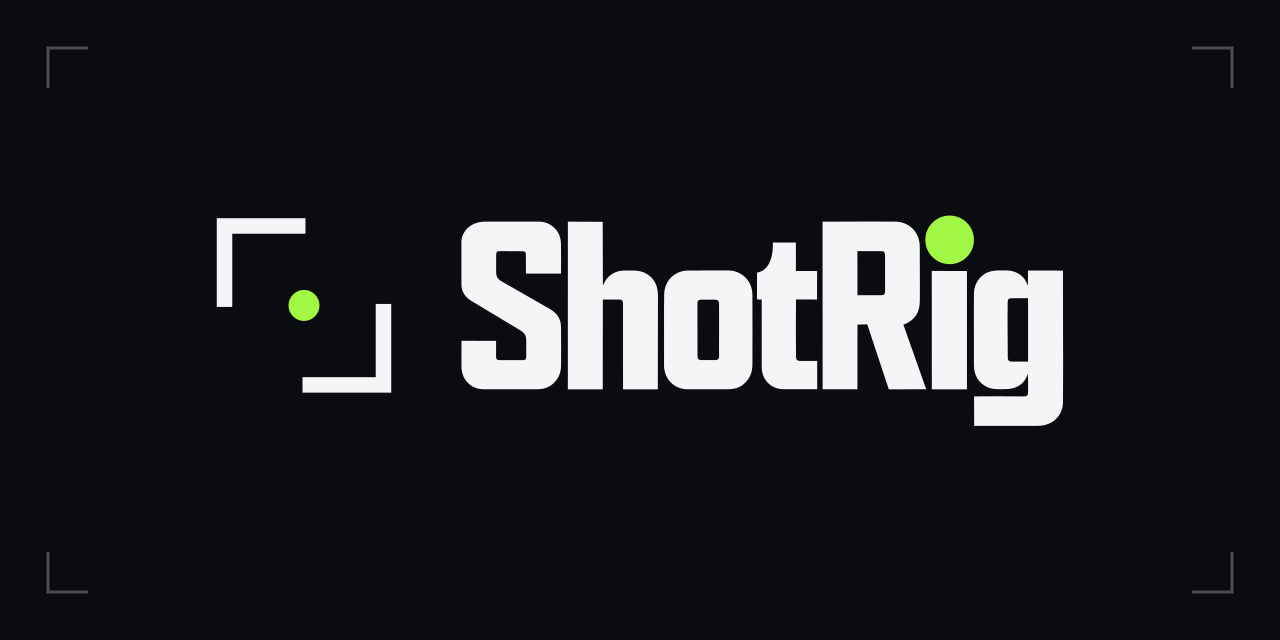
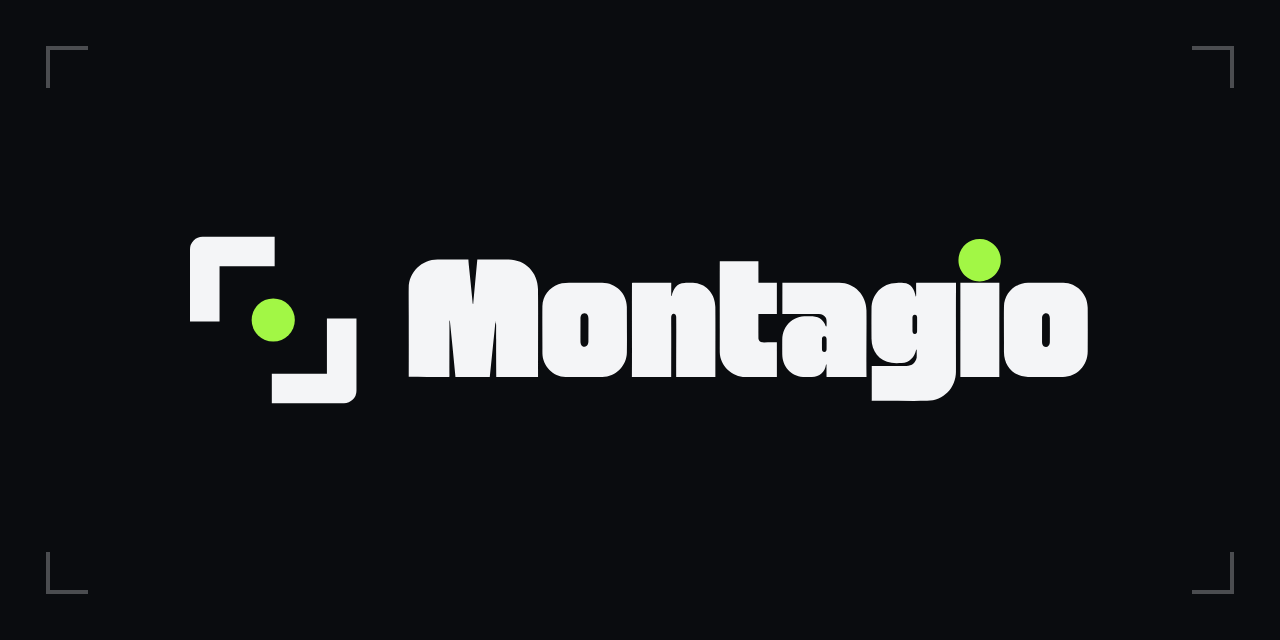
chore: the project is now called Montagio
Everything a user sees says Montagio: the app's texts in English and French, page titles, the mentions written in new MP4 and PNG files, download names, log prefixes, the node pack's display names, category and Registry name, the MCP server's name and texts, the installer's messages, scripts (montagio.sh, montagio.ps1), install folder and pack link, the preset command (npm run montagio), the author of the bundled presets, the Comfy Hub templates, the showcase's Space card and the docs.

The logo: the mark keeps its two viewfinder corners and its tally dot, drawn thicker to sit with the new wordmark, heavy and rounded; the header shows both at 22 px, and the favicon, icon.svg, apple-icon.png, docs/brand/ and the 1280x640 social card are made from them.

The identifiers stay, since files, workflows and recipes hold them: the @montagio/* packages, the MONTAGIO_* variables, the node ids, the schemas (montagio/recipe@1 and the others), the recipe's stack.montagio, the PNG key Montagio-Recipe, the output folders of the app's workflow templates, the GPU tooling's names and the binaries of demo-assets/. The avatar example's sample sentence keeps the former name: it is what demo-assets/examples/avatar.mp4 says.

The line naming the competitor goes to the first line of the README and to the Space card's short description only, as the repository policy test now checks.

diff --git a/apps/web/src/components/Brand.tsx b/apps/web/src/components/Brand.tsx
@@ -5,18 +5,18 @@
  */
 import styles from './brand.module.css';
 
-const MARK_CORNERS = 'M219 219H517V271H271V517H219ZM805 805H507V753H753V507H805Z';
+const MARK_CORNERS = 'M219 517V263A44 44 0 0 1 263 219H517V323H323V517ZM805 507V761A44 44 0 0 1 761 805H507V701H701V507Z';
 const WORDMARK_LETTERS =
-  'M293.008 429.299C292.99 438.703 293.023 448.107 292.955 457.511C292.912 463.549 296.416 463.673 301.87 463.686C314.875 463.715 327.881 463.807 340.885 463.624C345.384 463.56 346.711 462.041 346.8 457.507C346.984 448.13 346.865 438.749 346.907 429.37C346.947 420.231 344.289 415.386 336.591 410.645C324.14 402.977 311.414 395.768 298.983 388.06C281.861 377.443 264.247 367.577 247.169 356.889C237.805 351.029 231.314 340.914 231.162 329.627C231.134 327.501 231.147 325.376 231.161 323.251C231.318 300.004 230.814 276.736 231.061 253.498C231.118 248.101 231.977 243.367 234.373 238.493C242.015 222.948 257.513 216.263 274.124 216.301C305.875 216.375 337.625 216.244 369.376 216.288C376.506 216.297 383.095 218.033 389.284 221.621C402.369 229.208 408.622 241.311 408.867 256.124C409.158 273.777 409.054 291.435 408.965 309.091L346.312 309.118C346.26 297.695 346.407 286.271 346.24 274.85C346.172 270.245 343.852 269.254 339.757 269.194C326.754 269.004 313.747 269.207 300.744 269.019C293.702 268.917 293.154 270.913 293.109 277.871C293.049 287.119 293.041 296.366 293.101 305.613C293.16 314.753 295.488 318.721 303.023 323.088C331.642 339.676 360.585 355.693 389.133 372.401C401.73 379.774 408.806 389.521 408.976 404.624C409.232 427.498 409.195 450.376 409.028 473.252C408.967 481.721 407.275 489.314 402.634 496.501C394.037 509.811 381.935 515.657 366.376 515.715C335.376 515.832 304.375 515.628 273.374 515.703C270.51 515.709 267.594 515.692 264.749 515.286C244.702 512.427 231.424 495.668 231.212 475.876C231.045 460.294 231.196 444.71 231.262 429.127L293.008 429.299ZM421.213 216.376L483.391 216.666L483.727 330.397C485 327.892 486.243 325.37 487.606 322.912C494.047 311.296 507.217 303.964 520.498 303.792C532.052 303.642 547.193 302.591 557.652 307.382C574.605 315.149 581.847 329.521 582.044 347.624C582.045 347.63 582.061 350.619 582.061 350.624C582.119 405.675 581.805 460.727 581.799 515.779L519.719 515.79C519.371 464.611 519.84 413.429 519.674 362.249C519.658 357.402 517.847 355.454 513.015 355.399C503.213 355.288 493.41 355.451 483.608 355.472L483.509 515.752L421.14 515.797L421.213 216.376ZM705.375 303.549C705.381 303.549 707.621 303.548 707.626 303.548C731.546 303.7 750.416 322.138 750.685 346.123C750.685 346.129 750.703 349.493 750.703 349.499C750.728 390.114 751.092 430.763 750.737 471.375C750.624 484.209 747.375 493.965 738.427 503.421C728.979 513.405 718.174 515.689 705 515.694C682.625 515.703 660.25 515.637 637.875 515.712C634.721 515.723 631.622 515.737 628.499 515.255C606.839 511.911 592.981 494.385 592.903 472.876C592.868 463.126 592.914 453.374 592.964 443.625C593.129 411.329 592.555 378.723 593.156 346.5C593.606 322.385 611.075 304.026 635.624 303.707C658.872 303.405 682.125 303.663 705.375 303.549ZM659.625 355.664C667.883 355.664 676.142 355.592 684.399 355.719C688.596 355.784 691.121 358.564 691.161 362.614C691.42 388.615 691.139 414.618 691.165 440.621C691.165 440.627 691.185 452.996 691.186 453.002C691.304 458.75 691.748 463.371 684.763 463.505C676.385 463.666 668.004 463.456 659.625 463.54C654.235 463.595 652.708 460.992 652.696 456.004C652.621 425.126 652.739 394.248 652.525 363.372C652.489 358.295 653.833 355.665 659.625 355.664ZM787.261 253.624L828.346 253.638L828.429 304.514L866.227 304.564L866.11 355.404L828.595 355.319C828.253 389.129 828.24 422.943 828.534 456.753C828.588 463.034 830.112 465.1 836.995 465.113C846.793 465.13 856.591 465.107 866.389 465.109L866.394 515.614C846.346 515.683 826.297 515.649 806.249 515.561C784.118 515.464 767.72 499.105 767.379 476.625C767.379 476.62 767.363 474.381 767.363 474.376C767.376 434.687 767.391 395.002 767.323 355.313C765.084 355.298 761.884 355.874 759.722 355.194C758.889 354.932 758.909 352.823 758.917 352.131C759.074 338.254 758.829 324.373 758.976 310.496C758.987 309.46 759.046 308.425 759.19 307.399C759.195 307.397 761.008 306.908 761.013 306.907C780.167 302.758 786.623 279.956 787.182 262.875C787.283 259.793 787.241 256.708 787.261 253.624ZM875.986 216.406C887.613 216.232 899.247 216.31 910.875 216.321C942.49 216.351 974.144 215.899 1005.75 216.334C1031.45 216.688 1049.66 235.805 1049.59 261.375C1049.51 293.876 1050.08 326.379 1049.66 358.877C1049.39 380.176 1039.27 393.179 1020.37 400.5L1061.07 515.696L994.296 515.791L955.852 399.997L938.341 400.055L938.247 515.702L876.123 515.704L875.986 216.406ZM938.215 269.049C952.479 269.065 966.745 268.865 981.008 269.04C986.975 269.113 987.598 272.29 987.634 277.871C987.767 298.373 987.607 318.876 987.667 339.379C987.684 345.493 986.712 347.666 980.262 347.681C966.279 347.716 952.295 347.58 938.313 347.804L938.215 269.049ZM1071.02 304.373L1133.8 304.55L1133.81 515.772L1071.12 515.799L1071.02 304.373ZM1242.75 488.387C1242.75 488.389 1242.36 489.379 1242.36 489.38C1241.58 491.024 1240.94 492.734 1240.14 494.366C1232.94 508.935 1219.39 515.178 1203.75 515.389C1192.89 515.535 1179.71 516.645 1169.59 511.624C1153.67 503.725 1146.36 489.917 1146.29 472.501C1146.25 461.002 1146.26 449.499 1146.3 438C1146.41 406.641 1145.88 375.219 1146.41 343.873C1146.56 335.441 1149.13 326.977 1154.3 320.252C1168.29 302.037 1183.55 303.425 1204.5 303.516C1219.08 303.579 1233.44 310.728 1239.77 324.373C1240.76 326.509 1241.61 328.712 1242.69 330.803L1242.84 303.672L1305.34 303.742C1305.36 336.995 1305.35 370.247 1305.42 403.5C1305.52 448.358 1305.85 493.274 1305.34 538.126C1305.28 543.686 1304.55 548.927 1302.48 554.115C1295 572.813 1278.59 581.013 1259.25 581.091C1221.74 581.243 1184.23 580.944 1146.72 581.081L1146.57 528.418C1175.88 528.262 1205.2 527.995 1234.5 528.461C1240.36 528.554 1242.87 527.267 1242.93 521.257C1243.03 510.3 1243.15 499.337 1242.75 488.387ZM1243 466.263C1235.41 466.196 1227.83 466.197 1220.25 466.219C1212.41 466.243 1206.84 467.503 1206.78 459.004C1206.56 428.889 1206.12 390.727 1206.58 359.997C1206.66 354.662 1208.32 353.203 1213.87 353.124C1223.57 352.985 1233.27 353.009 1242.97 353.004L1243 466.263Z';
+  'M206.681 963.744C206.929 883.832 206.885 803.912 206.774 724C206.723 687.859 206.147 651.627 206.608 615.5C207.413 552.366 257.652 504.95 319.499 504.171C319.507 504.171 325.492 504.134 325.5 504.134C363.755 504.073 402.14 503.543 440.386 504.227C440.693 511 441.139 517.758 441.889 524.499C447.181 572.101 451.632 619.835 456.326 667.5C456.622 670.504 456.838 673.515 456.983 676.529C457.731 677.356 458.478 678.182 459.226 679.008C459.226 679.005 459.669 672.504 459.669 672.501C464.221 617.627 470.208 562.863 474.969 508.001C475.081 506.72 475.218 505.441 475.353 504.161C516.235 503.923 557.121 503.765 598.001 504.313C663.287 505.189 712.116 554.707 712.95 620C713.951 698.303 713.152 776.69 713.208 855C713.234 891.276 713.015 927.552 713.201 963.827L549.412 963.92C549.181 915.455 548.722 866.987 549.183 818.524C549.052 816.184 548.917 813.843 548.905 811.5C548.826 795 548.98 778.5 548.951 762C548.948 760.77 548.905 759.541 548.856 758.312C548.423 756.369 548.242 754.534 547.461 752.707C546.633 750.77 546.848 745.72 546.751 743.725C546.511 745.313 546.262 746.901 546.12 748.501C543.8 774.675 541.033 800.876 538.19 827.001C533.232 872.56 529.228 918.222 524.108 963.763L389.606 963.846C389.458 961.897 389.309 959.947 389.132 958C382.628 886.387 374.888 814.856 367.748 743.304C366.129 743.541 366.187 744.346 366.108 745.961C365.938 749.47 366.1 752.987 366.12 756.501C366.346 795.662 365.979 834.837 365.992 874C366 898.331 365.826 922.671 365.936 947.001C365.962 952.627 366.409 958.285 365.592 963.851C312.622 964.1 259.648 964.367 206.681 963.744ZM2194.43 595.423C2246.36 595.574 2298.29 595.409 2350.23 595.57C2349.53 707.865 2350.04 820.201 2350.08 932.5C2350.08 932.508 2350.06 942.993 2350.06 943C2349.51 1006.86 2302.04 1057.16 2237 1057.72C2165.85 1058.34 2094.66 1057.32 2023.5 1057.71C2022.41 1057.72 2021.33 1057.73 2020.24 1057.75L2020.22 921.17C2065.48 920.535 2110.74 921.375 2156 921.292C2178.36 921.252 2191.54 909.001 2196.21 888.261C2196.02 885.176 2196.34 882.09 2196.3 879C2196.23 872.99 2196.2 867.002 2196.22 860.99C2196.22 860.983 2196.18 858.969 2196.18 858.962C2196.08 857.225 2196.06 856.532 2194.37 856.207C2194.36 856.215 2193.88 858.565 2193.88 858.572C2188.03 886.65 2167.2 908.781 2137.5 909.457C2124.79 909.747 2110.48 910.652 2097.79 908.512C2048.5 900.198 2019.69 863.3 2019.23 814.001C2018.86 774.835 2018.93 735.665 2019.24 696.499C2019.68 640.899 2060.13 595.833 2117.5 595.602C2126.5 595.566 2135.5 595.531 2144.5 595.624C2174.73 595.938 2187.54 621.604 2192.37 648.604C2192.38 648.603 2193.12 648.553 2193.12 648.552C2194.29 648.499 2194.08 643.628 2194.08 643.005C2194.09 638.503 2194.08 634.001 2194.07 629.5C2194.05 619.68 2193.78 609.812 2193.94 599.997C2193.96 598.462 2194.18 596.938 2194.43 595.423ZM889.5 595.483C914.5 595.456 939.502 595.293 964.5 595.569C1017.33 596.153 1060.44 637.118 1061.01 690C1061.01 690.007 1061.02 695.492 1061.02 695.5C1061.01 752.978 1062 810.533 1061.11 868C1060.31 920.054 1017.27 963.095 965.001 963.85C964.993 963.85 960.508 963.878 960.501 963.878C918.512 964.036 876.49 964.161 834.5 963.997C830 963.979 825.499 964.018 821 963.933C771.296 962.995 730.818 920.436 730.28 871.001C730.28 870.993 730.274 866.008 730.274 866C730.519 806.513 729.543 746.981 730.193 687.5C730.302 677.576 732.003 668.434 735.115 659C747.115 622.62 782.583 596.37 820.999 595.59C843.828 595.127 866.666 595.508 889.5 595.483ZM1081.04 595.611C1082.85 595.349 1084.67 595.12 1086.5 595.107C1133.99 594.771 1181.5 595.072 1229 595.031C1229.01 595.031 1234.86 595.026 1234.87 595.026C1234.9 611.023 1234.89 627.021 1234.87 643.018C1234.87 643.651 1234.63 646.266 1235.53 646.641C1235.57 646.659 1236.54 646.963 1236.71 647.016C1241.34 619.924 1256.98 595.823 1287.5 595.584C1297.01 595.509 1317.21 594.815 1327.5 595.841C1376.21 600.702 1407.2 642.803 1407.6 689.999C1408.39 781.284 1407.47 872.575 1407.73 963.863L1254.23 964.164C1253.79 886.275 1255.02 808.382 1254.27 730.495C1254.22 725.017 1253.41 719.255 1247.49 717.15C1238.57 713.985 1234.79 723.289 1234.72 730.493C1234.59 742.987 1234.75 755.503 1234.78 768C1234.98 833.343 1234.81 898.67 1234.65 964.016L1080.77 964.044C1080.77 964.037 1080.8 960.509 1080.8 960.502C1081.53 838.879 1080.51 717.239 1081.04 595.611ZM2753.5 595.417C2759.16 595.416 2764.81 595.386 2770.47 595.49C2823.61 596.474 2865.59 640.136 2866 692.999C2866.44 750.165 2866.33 807.334 2866.01 864.5C2865.7 918.959 2825.28 962.959 2769 963.827C2741.17 964.256 2713.33 963.901 2685.5 963.868C2667.67 963.846 2649.83 964.028 2632 963.808C2576.04 963.115 2538.4 921.714 2538.02 867.5C2537.93 856.001 2538.01 844.499 2538.02 833C2538.05 784.859 2537.32 736.628 2538.04 688.5C2538.82 637.13 2580.6 596.166 2632 595.563C2672.5 595.087 2713 595.419 2753.5 595.417ZM1670.19 595.447C1744.46 595.574 1818.73 595.052 1893 595.577C1953.13 596.002 1998.83 644.326 1999.48 703.5C2000.42 790.316 1998.3 877.152 1999.66 963.964C1947.58 963.718 1895.51 963.948 1843.43 964.078C1843.12 962.237 1842.97 960.373 1843 958.506C1843.21 943.978 1842.58 929.438 1843.12 914.918C1842.52 915.013 1841.91 915.108 1841.3 915.203C1836.3 945.569 1816.48 963.415 1785.5 963.924C1774 964.113 1762.49 964.561 1751 964.007C1702.49 961.666 1670.12 922.888 1669.69 875.5C1669.51 856.001 1669.49 836.499 1669.67 816.999C1669.91 790.936 1680.67 764.766 1700.9 747.844C1726.35 726.549 1745.78 726.116 1777.5 726.069C1808.69 726.022 1829.54 734.396 1840.07 765.37C1841.04 765.679 1842.01 765.987 1842.99 766.296C1843.19 757.025 1844.75 741.302 1840.32 732.411C1835.24 722.188 1824.54 717.217 1813.5 717.208C1765.7 717.169 1717.91 717.308 1670.11 717.276L1670.19 595.447ZM1424.97 511.229L1576.28 511.338L1576.41 595.535L1648.54 595.571L1648.65 717.234L1576.22 717.102C1576.24 748.404 1576.07 779.707 1576.34 811.008C1576.35 812.198 1576.39 813.384 1576.57 814.562C1578.41 826.73 1588.07 828.8 1598.5 828.683C1615.19 828.497 1631.88 828.579 1648.58 828.554L1648.66 964.141C1607.61 964.168 1566.55 964.299 1525.5 964.112C1472.97 963.872 1425.73 919.98 1424.92 867.001C1424.86 863.001 1424.87 859 1424.88 855C1425.19 740.411 1424.63 625.817 1424.97 511.229ZM2367.28 595.538L2519.98 595.529L2519.86 963.827L2367.27 963.925L2367.28 595.538ZM2189.5 720.332C2195.05 720.745 2197.73 725.348 2197.8 730.49C2198.07 748.493 2197.78 766.5 2197.75 784.505C2197.74 790.77 2196.2 796.433 2188.5 796.176C2181.72 795.951 2179.8 790.423 2179.76 784.508C2179.64 767.336 2179.84 750.162 2179.64 732.991C2179.56 726.791 2181.64 719.748 2189.5 720.332ZM895.5 714.465C907.876 715.089 910.577 726.531 910.597 736.497C910.658 765.832 910.477 795.167 910.405 824.503C910.382 834.211 907.209 845.075 895.5 845.601C883.205 846.153 879.397 834.988 879.328 825.003C879.121 795.168 879.481 765.332 879.372 735.498C879.336 725.539 883.318 713.851 895.5 714.465ZM2703.5 714.417C2713.88 714.753 2717.73 725.205 2717.76 733.995C2717.87 764.998 2717.98 796.003 2717.72 827.006C2717.65 835.46 2713.23 845.694 2703.5 846.299C2691.26 847.06 2687.2 836.257 2687.16 826.002C2687.06 795.167 2687.34 764.331 2687.23 733.495C2687.2 724.113 2692.88 714.072 2703.5 714.417ZM1833.5 804.268C1840.85 803.755 1843.3 809.912 1843.33 815.994C1843.4 829.165 1843.36 842.336 1843.25 855.507C1843.21 861.007 1840.72 866.282 1834.5 866.257C1828.59 866.233 1825.39 862.273 1825.31 856.51C1825.13 842.505 1825.11 828.495 1825.28 814.489C1825.34 809.609 1828.05 804.649 1833.5 804.268Z';
 const WORDMARK_DOT =
-  'M1102.88 205.48C1126.87 205.454 1146.34 224.898 1146.34 248.894C1146.34 272.889 1126.87 292.334 1102.88 292.308C1078.92 292.282 1059.51 272.853 1059.51 248.894C1059.51 224.935 1078.92 205.506 1102.88 205.48Z';
+  'M2443.5 423.696C2489.27 424.079 2526.1 461.437 2525.82 507.208C2525.54 552.979 2488.27 589.889 2442.5 589.718C2396.58 589.546 2359.52 552.124 2359.8 506.204C2360.08 460.283 2397.58 423.312 2443.5 423.696Z';
 
 /** The mark; while a take renders its dot blinks like a camera's tally light. */
 export function BrandMark({ recording = false, className }: { recording?: boolean; className?: string }) {
   return (
     <svg className={className} viewBox="211 211 602 602" aria-hidden="true" focusable="false">
       <path className={styles.ink} d={MARK_CORNERS} />
-      <circle className={styles.dot} data-recording={recording} cx="512" cy="512" r="52" />
+      <circle className={styles.dot} data-recording={recording} cx="512" cy="512" r="76" />
     </svg>
   );
 }
@@ -24,7 +24,7 @@ export function BrandMark({ recording = false, className }: { recording?: boolea
 /** The name as drawn for the logo; the link around it carries the words for assistive technology. */
 export function Wordmark({ className }: { className?: string }) {
   return (
-    <svg className={className} viewBox="228 200 1082 384" aria-hidden="true" focusable="false">
+    <svg className={className} viewBox="198 415 2677 652" aria-hidden="true" focusable="false">
       <path className={styles.ink} fillRule="evenodd" d={WORDMARK_LETTERS} />
       <path className={styles.dot} d={WORDMARK_DOT} />
     </svg>

diff --git a/tools/check-open-stack/test/repo-policy.test.ts b/tools/check-open-stack/test/repo-policy.test.ts
@@ -1,13 +1,17 @@
 import { execFileSync } from 'node:child_process';
+import { readFileSync } from 'node:fs';
 import { fileURLToPath } from 'node:url';
 
 const repoRoot = fileURLToPath(new URL('../../../', import.meta.url));
 
-// Spec rule: the competitor's brand is named only in the README "Context"
-// section. The word is assembled at runtime so this test does not name it.
+// Spec rule: the competitor's brand is named only in the README and, for search, in the
+// description of the Space card (the user's choice on 2026-10-25, with the repository's
+// description and topics, which live on GitHub). Never in the app, the showcase or the video.
+// The word is assembled at runtime so this test does not name it.
 const brand = ['higgs', 'field'].join('');
+const SPACE_CARD = 'apps/web/showcase-space/README.md';
 
-test('only the README mentions the competitor brand', () => {
+test('only the README and the Space card mention the competitor brand', () => {
   let files: string[] = [];
   try {
     files = execFileSync('git', ['grep', '-i', '-l', brand, '--', '.', ':!package-lock.json'], {
@@ -20,5 +24,13 @@ test('only the README mentions the competitor brand', () => {
     // git grep exits 1 when nothing matches
     if ((error as { status?: number }).status !== 1) throw error;
   }
-  expect(files).toEqual(['README.md']);
+  expect(files.sort()).toEqual(['README.md', SPACE_CARD]);
+});
+
+test('the Space card names it in its short description only, not on the page', () => {
+  const card = readFileSync(new URL(`../../../${SPACE_CARD}`, import.meta.url), 'utf8');
+  const lines = card.split(/\r?\n/).filter((line) => line.toLowerCase().includes(brand));
+  expect(lines.map((line) => line.split(':')[0])).toEqual(['short_description']);
+  const frontMatter = /^---\r?\n([\s\S]*?)\r?\n---/.exec(card)?.[1] ?? '';
+  expect(frontMatter.toLowerCase()).toContain(brand);
 });

diff --git a/infra/local/test/cli.test.ts b/infra/local/test/cli.test.ts
@@ -7,13 +7,13 @@ test('montagio.ps1 hands the arguments over as JSON, untouched by PowerShell 5.1
 });
 
 test('install options are read', () => {
-  expect(parseArgs(['install', '--dry-run', '--ignore-vram', '--dir', 'D:\\Shot Rig', '--comfy-port', '8288', '--no-start', '--no-browser'])).toEqual({
+  expect(parseArgs(['install', '--dry-run', '--ignore-vram', '--dir', 'D:\\Montagio Data', '--comfy-port', '8288', '--no-start', '--no-browser'])).toEqual({
     command: 'install',
     options: {
       dryRun: true,
       appOnly: false,
       ignoreVram: true,
-      dir: 'D:\\Shot Rig',
+      dir: 'D:\\Montagio Data',
       start: false,
       browser: false,
       proxyUrl: null,

diff --git a/apps/web/src/components/header.module.css b/apps/web/src/components/header.module.css
@@ -41,16 +41,16 @@
   min-width: 0;
 }
 
-/* The logo's proportions (docs/brand/montagio-logo.svg): the mark 320/384 of the wordmark's height, the gap about a third of the mark. */
+/* The logo's proportions (docs/brand/montagio-logo.svg): the mark's corners as tall as the wordmark (its dot to the foot of its g), the gap about a third of that. */
 .mark {
   flex: none;
-  width: 20px;
-  height: 20px;
+  width: 22px;
+  height: 22px;
 }
 
 .wordmark {
   flex: none;
-  height: 24px;
+  height: 22px;
   width: auto;
 }
 

diff --git a/infra/local/src/cli.ts b/infra/local/src/cli.ts
@@ -235,7 +235,7 @@ export async function main(argv: string[]): Promise<number> {
 /**
  * The arguments. montagio.ps1 sends them as JSON in MONTAGIO_ARGV: Windows
  * PowerShell 5.1 splits an argument that starts with "-" and holds a space
- * ("--dir=C:\Shot Rig") when it passes it to a program.
+ * ("--dir=C:\Montagio Data") when it passes it to a program.
  */
 export function argvFrom(env: Record<string, string | undefined>, argv: string[]): string[] {
   const raw = env.MONTAGIO_ARGV;

diff --git a/comfy-nodes/scripts/smoke_comfyui.py b/comfy-nodes/scripts/smoke_comfyui.py
@@ -10,8 +10,9 @@ tensor, so no GPU and no model file are needed.
 
     python comfy-nodes/scripts/smoke_comfyui.py [URL]      # URL defaults to http://127.0.0.1:8199
 
-The pack must be installed in ComfyUI's custom_nodes folder (as custom_nodes/montagio) and ComfyUI
-must be running. Exit code 0 when the run succeeds, 1 otherwise, with ComfyUI's own error shown.
+The pack must be installed in ComfyUI's custom_nodes folder (custom_nodes/montagio for a local install,
+custom_nodes/montagio on the GPU pods of infra/) and ComfyUI must be running. Exit code 0 when the
+run succeeds, 1 otherwise, with ComfyUI's own error shown.
 Standard library only, so it runs anywhere Python does, a pod included.
 """
 import json
@@ -166,7 +167,7 @@ def main(url=DEFAULT_URL, *, timeout=TIMEOUT_S, poll_interval=POLL_INTERVAL_S):
         for class_type in dict.fromkeys(node["class_type"] for node in prompt.values()):
             _, info = _request("GET", f"{url}/object_info/{class_type}")
             if class_type not in info:
-                hint = "is the pack installed as custom_nodes/montagio? see ComfyUI's log" if class_type.startswith("Montagio") else "does this ComfyUI have it?"
+                hint = "is the pack in ComfyUI's custom_nodes folder (custom_nodes/montagio)? see ComfyUI's log" if class_type.startswith("Montagio") else "does this ComfyUI have it?"
                 print(f"{class_type} is not in {url}/object_info ({hint})")
                 return 1
             print(f"{class_type}: in /object_info")

diff --git a/docs/BUILD_LOG.md b/docs/BUILD_LOG.md
@@ -296,3 +296,8 @@ UI/UX audit of 21/10 (score 26/40, no P0, three P1): its action plan, one branch
   - `check-open-stack` gains a rule: each pinned pack must be the source of an allowed node at that commit, under Apache-2.0 or MIT, and each such source must be pinned.
   - On this Windows machine: the voice pack at its pin takes the patch, and its five wheels for Python 3.12 match their hashes. Not checked: torchaudio 2.11 with torch 2.14.1 on Windows, which the install's import check guards.
 - The captions validated on an L4 on 2026-10-25: Whisper large-v3 turbo wrote the same nine words and moments as on the CPU ComfyUI for the avatar example, in 10.5 s with its loading (4.9 GB); the last word ends 15 ms after the speech. The 9:16 export made from those words highlights each word while it is said, and the app's captions flow and recipe pass on them. $0.016, Whisper's files fetched to the account's volume included. The smoke gains a `transcribe` job.
+- The project is now called **Montagio** (the user's choice on 2026-10-25): the former name sounded dated and led to fishing gear in a search. Everything a user sees changed in one batch; the identifiers stayed.
+  - Renamed: the app's texts in English and French, page titles, the MP4 and PNG mentions written from now on ("made with Montagio", "Montagio demo render", "Montagio showcase placeholder"), download names (`montagio-*.mp4`, `.montagio-share.json`), log prefixes, the node pack's display names and category ("Load Montagio Preset", "Montagio Camera Embedding"), its Registry name `montagio`, the MCP server's name and texts, the installer's messages and scripts (`montagio.sh`, `montagio.ps1`), its install folder (`%LOCALAPPDATA%\Montagio`, `~/.local/share/montagio`) and the pack's link in it (`custom_nodes/montagio`), the preset command (`npm run montagio -- preset validate`), the author of the bundled presets (`montagio-community`), the Comfy Hub templates and the docs.
+  - The logo: the mark keeps its two viewfinder corners and its tally dot, drawn thicker (a stroke of 104 instead of 52, the outer angle softened to a radius of 44, the dot 76 instead of 52) to sit with the new wordmark, heavy and rounded. The header shows both at 22 px; the favicon, `icon.svg`, `apple-icon.png`, the files of `docs/brand/` and the 1280×640 social card were made again from them.
+  - Kept, since files, workflows and recipes already hold them: the `@montagio/*` packages, the `MONTAGIO_*` variables, the node ids (`MontagioCameraEmbedding`, `MontagioLoadPreset`, `MontagioPresetFromYAML`, `MontagioTranscribeWords`), the schemas (`montagio/recipe@1` and the others), the recipe's `stack.montagio`, the PNG key `Montagio-Recipe` that reproduce reads back, the output folders of the app's own workflow templates (in each recipe's workflow sha256), the GPU tooling's names (Modal app and volumes, `/workspace/montagio`, its `custom_nodes/montagio`) and the binaries of `demo-assets/` (their sha256 are checked).
+  - Kept on purpose: the avatar example's sample sentence, "Hello, this is a test of the Montagio avatar.", which is what the portrait of `demo-assets/examples/avatar.mp4` says. A new render of that example, on a GPU, would let it say Montagio.

diff --git a/docs/S2_RESULTATS.md b/docs/S2_RESULTATS.md
@@ -398,7 +398,7 @@ Demandé par l'utilisateur (« go » à « On boucle les deux trous (sous-titres
 - Les 11 fichiers de Whisper manquaient sur le volume du compte montagio-2 : téléchargés par `weights --only whisper-turbo-…` (1,6 Go, sha256 vérifiés), 0,003 $.
 - `smoke --extension transcribe --audio demo-assets/examples/avatar.mp4` : la parole du clip préparée comme l'app la prépare (FLAC mono à 16 kHz), langue détectée. **10,5 s** sur la L4, chargement du modèle compris, **4,9 Go** au plus (contre 95,7 s sur le CPU d'un portable). Résultat sur le volume (`runs/20261025-205422-captions`) et hors dépôt dans `s3/validation/20261025-205422-captions/`.
 - **Les mots** : les mêmes neuf mots et les mêmes instants qu'au passage CPU, au centième près (« Hello, this is a test of the Shotrate Avatar. », langue `en` détectée). Contre le son : la parole s'arrête à 2,545 s (silence détecté par FFmpeg), le dernier mot finit à 2,56 s.
-- **L'export 9:16** fait de ces mots, avec le texte corrigé (« Montagio ») et le style « pop » : chaque mot est surligné pendant qu'il est dit (HELLO à 0,25 s, TEST à 1,09 s, MONTAGIO à 1,72 s, AVATAR à 2,19 s).
+- **L'export 9:16** fait de ces mots, avec le texte corrigé (« Montagio », l’ancien nom de l’app, que dit le clip) et le style « pop » : chaque mot est surligné pendant qu'il est dit (HELLO à 0,25 s, TEST à 1,09 s, MONTAGIO à 1,72 s, AVATAR à 2,19 s).
 - **L'app et la recette** : les tests des sous-titres, rejoués sur ces mots (`MONTAGIO_DEMO_CAPTIONS`), passent (14 sur 14). Ils couvrent le transcript, l'export 1080×1920 avec son et mention « AI-generated », et la recette qui rejoue l'avatar puis ses sous-titres dans le même style.
 - **Coût réel : 0,016 $** (Whisper sur le volume 0,003 $, le passage 0,013 $). Relevé du mois : 22,62 $.
 - **Daté** : la validation est notée dans `registry/extensions/whisper-turbo-words.yaml`, dont l'estimation passe de 8 s à 12 s. Les sous-titres suivent l'extension « avatar », déjà datée.

diff --git a/apps/web/DESIGN.md b/apps/web/DESIGN.md
@@ -34,7 +34,7 @@ A 4 px scale (`--space-1` 4 … `--space-7` 48). Radii: 6 px (glyphs, badges), 1
 
 ## Logo
 
-Two opposite viewfinder corners around the tally dot (the mark), and the name in heavy condensed lettering with the same lime dot over its i (the wordmark). Files in `docs/brand/`: the mark, the wordmark and the lockup, each for a dark ground (ink `#F4F5F7`, lime `#A2F745`) and a light one (ink `#0A0C0F`, lime darkened to `#5D9A07`, 3.45:1 on white), plus the 1280×640 social card. In the app (`Brand.tsx`, inline): the header shows the lockup, the mark at 20 px and the wordmark at 24 px; the mark's dot blinks while a take renders. The favicon and `icon.svg` use a cut of the mark drawn larger in its graphite tile, with thicker corners and a larger dot, so both survive 16 px; `apple-icon.png` keeps the drawn proportions.
+Two opposite viewfinder corners around the tally dot (the mark: thick corners, the outer angle softened, to match the lettering), and the name in heavy rounded lettering with the same lime dot over its i (the wordmark). Files in `docs/brand/`: the mark, the wordmark and the lockup, each for a dark ground (ink `#F4F5F7`, lime `#A2F745`) and a light one (ink `#0A0C0F`, lime darkened to `#5D9A07`, 3.45:1 on white), plus the 1280×640 social card. In the lockup the mark's corners are as tall as the wordmark (its dot to the foot of its g), about a third of that apart. In the app (`Brand.tsx`, inline): the header shows the lockup, the mark and the wordmark both at 22 px; the mark's dot blinks while a take renders. The favicon and `icon.svg` put the same mark, larger, in its graphite tile, so both survive 16 px; `apple-icon.png` is that drawing on a full square, which iOS rounds itself.
 
 ## Components
 

diff --git a/apps/web/PRODUCT.md b/apps/web/PRODUCT.md
@@ -30,7 +30,7 @@ Spectacular, immediate, precise. The camera moves sell themselves, the way they 
 - The raw node editor: the density of a ComfyUI graph. Montagio stays one click; the hood opens only when asked.
 - Neon cyberpunk: glows, glitches, saturated colours everywhere.
 
-The project spec also forbids the commercial competitor's name, logo, texts, outputs and preset names anywhere in the product (the README alone names it).
+The project spec also forbids the commercial competitor's name, logo, texts, outputs and preset names anywhere in the product (only the README, the repository's description and topics and the Space card's description name it, for search).
 
 ## Design Principles
 

diff --git a/README.md b/README.md
@@ -5,6 +5,8 @@
   </picture>
 </h1>
 
+Montagio, the open-source Higgsfield alternative.
+
 [![Built on the Comfy SDK](https://img.shields.io/badge/built%20on-Comfy%20SDK-a2f745?labelColor=1f2328)](docs/BUILD_NOTES.md#on-the-comfy-developer-platform)
 [![Open weights only: Apache-2.0 or MIT](https://img.shields.io/badge/weights-Apache--2.0%20%7C%20MIT%20only-a2f745?labelColor=1f2328)](#proof-measured)
 [![0 partner nodes](https://img.shields.io/badge/partner%20nodes-0-a2f745?labelColor=1f2328)](#proof-measured)

diff --git a/apps/web/showcase-space/README.md b/apps/web/showcase-space/README.md
@@ -7,7 +7,7 @@ sdk: static
 app_file: index.html
 pinned: false
 license: agpl-3.0
-short_description: Camera-move presets on open-weights video models
+short_description: Montagio, the open-source Higgsfield alternative
 models:
   - Comfy-Org/Wan_2.2_ComfyUI_Repackaged
   - Comfy-Org/Wan_2.1_ComfyUI_repackaged
